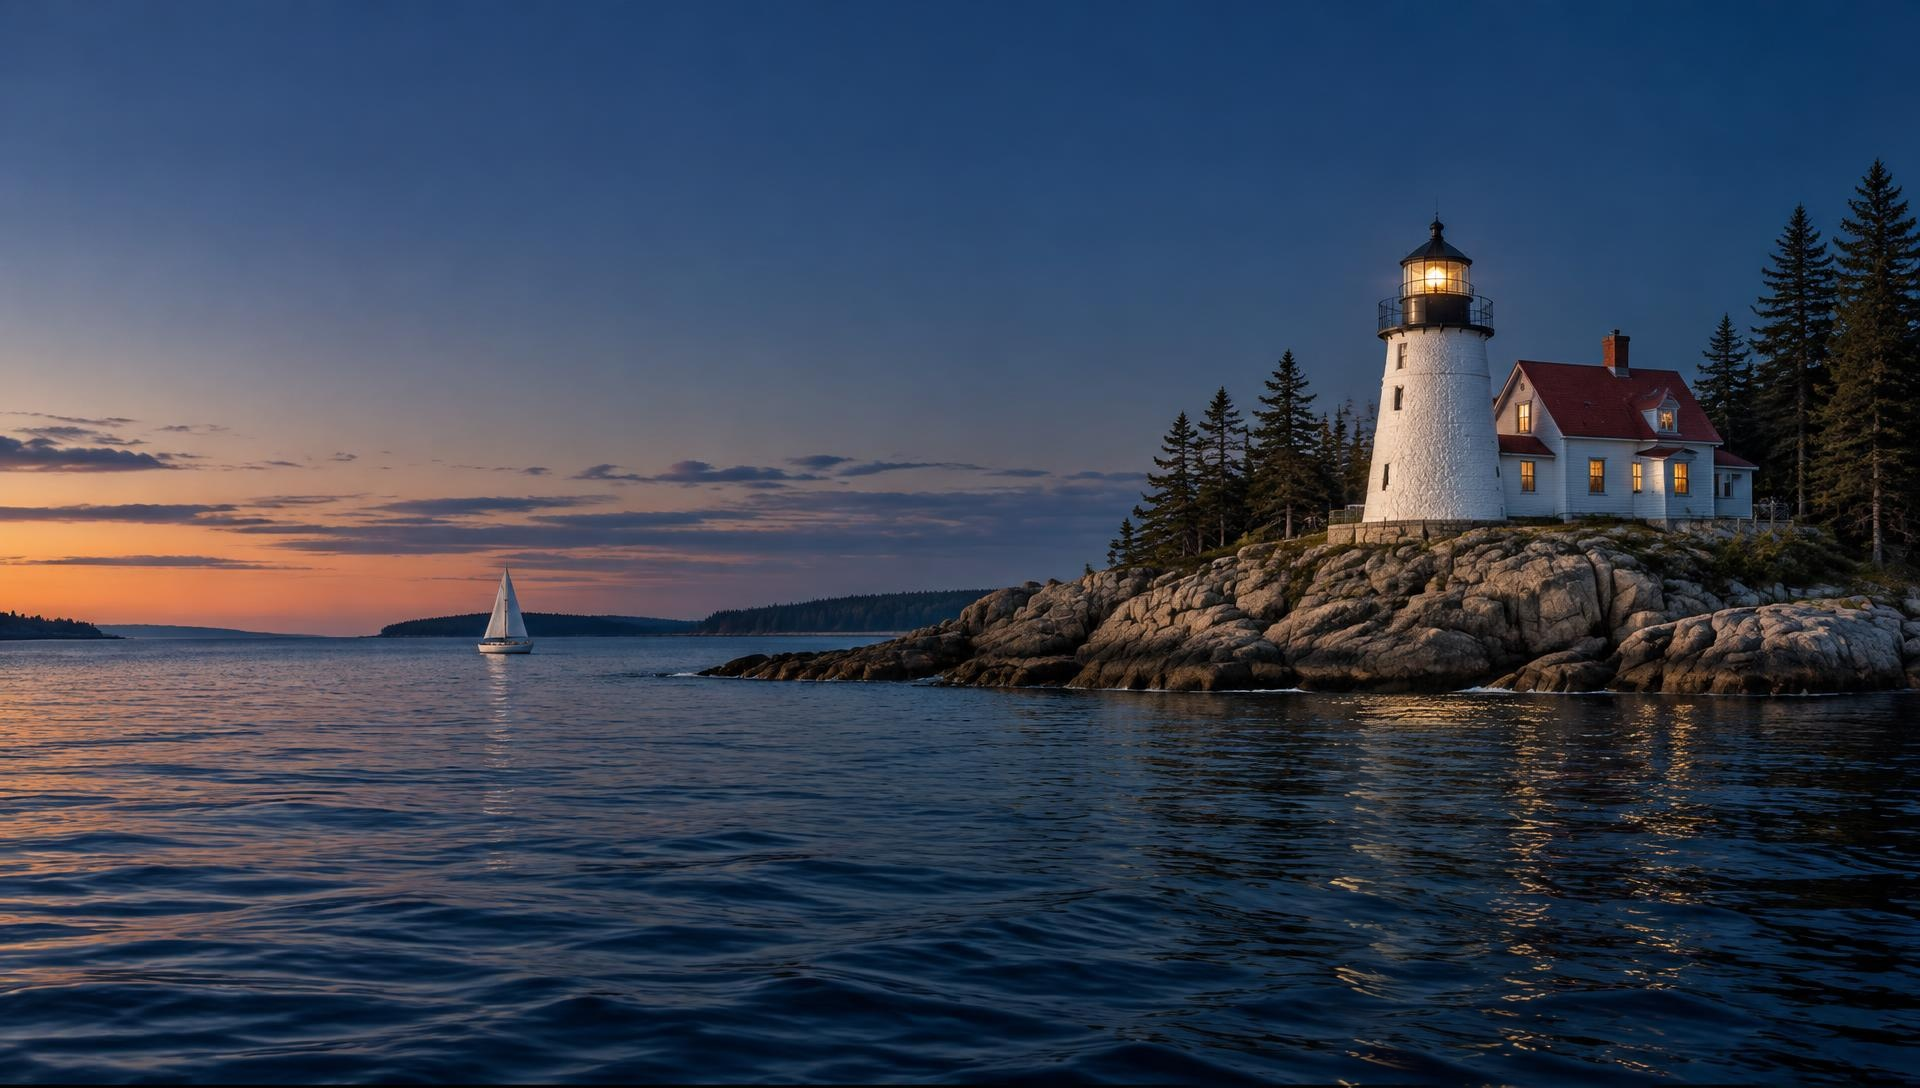
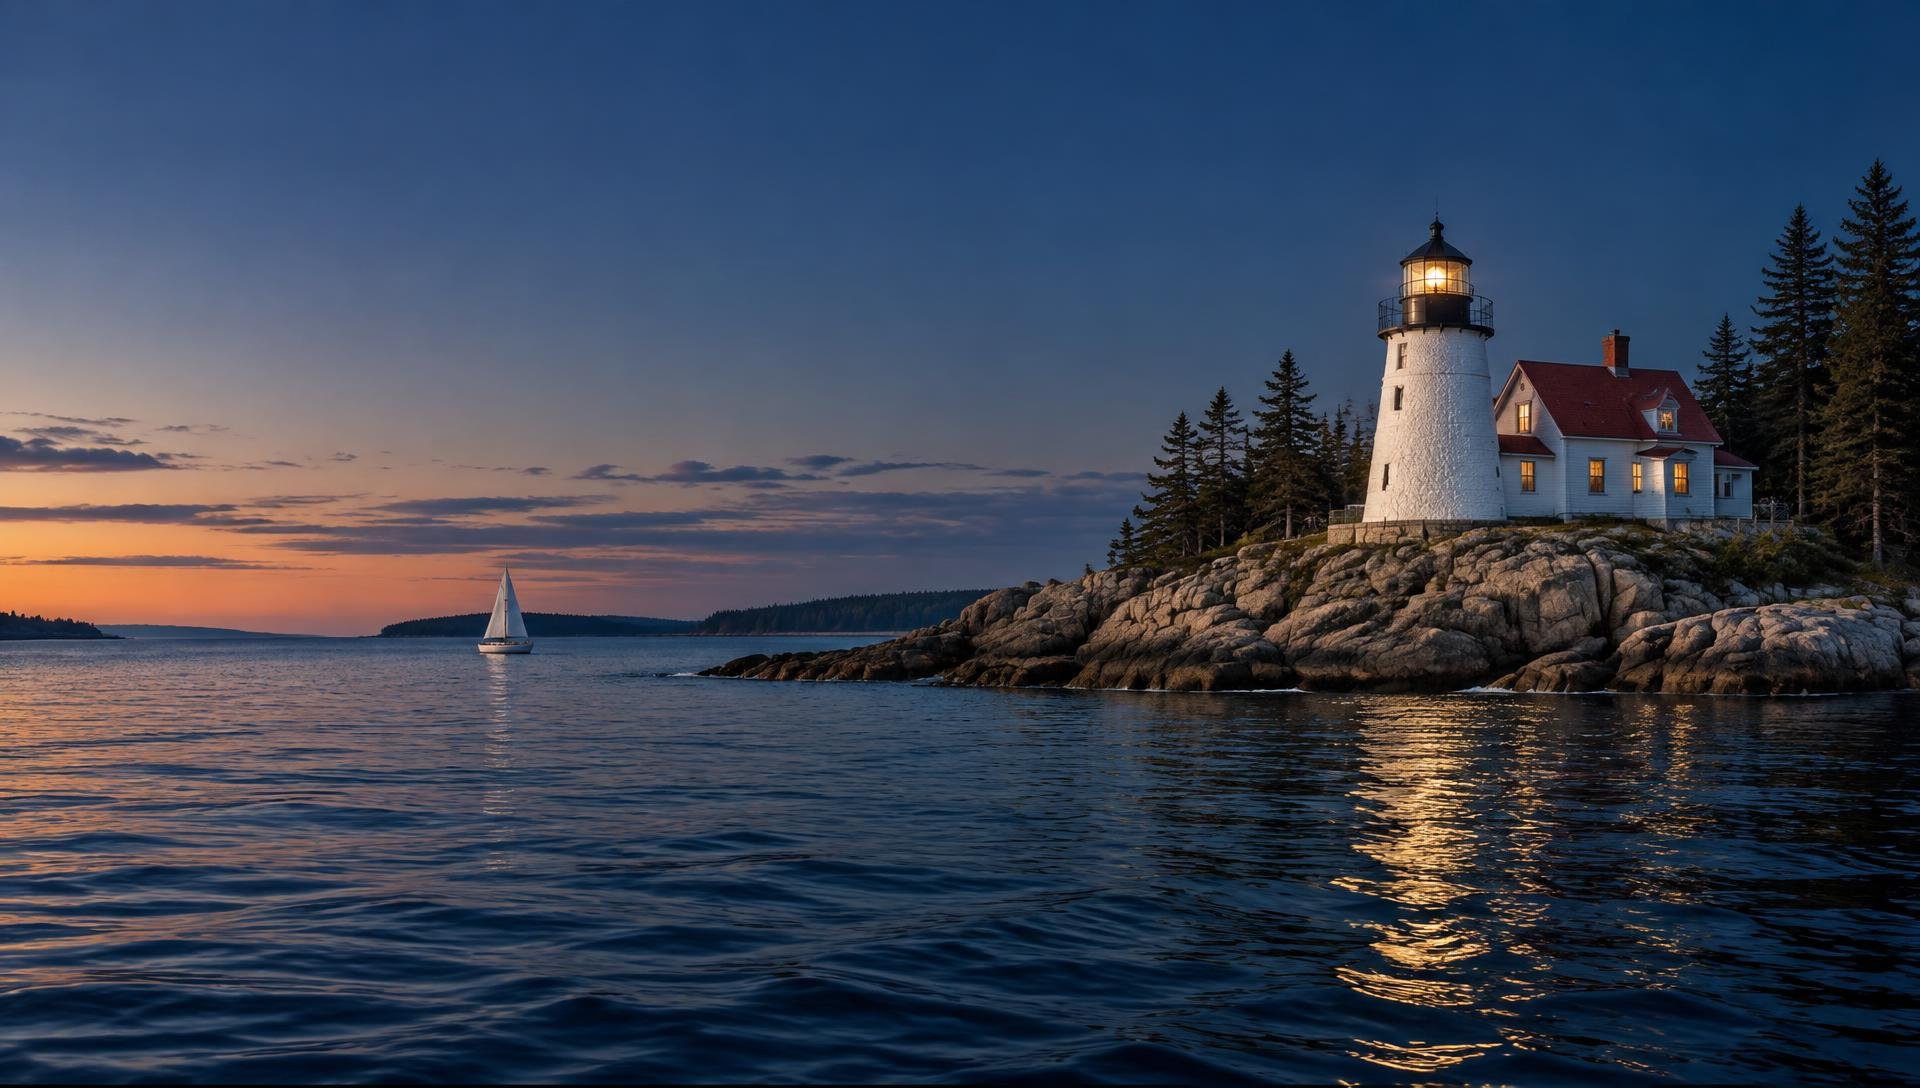
Changes

Changed region(s): [[0.6875, 0.6562, 0.8125, 1.0]]

diff --git a/src/index.css b/src/index.css
@@ -663,30 +663,43 @@ All colors MUST be HSL.
   mix-blend-mode: screen;
   animation: pcd-hh-flare 10s linear infinite;
 }
-/* Water glints: top pinned to the painted shoreline (source y=730, 454px below lamp); clipped to water */
+/* Water reflection: pinned to painted shoreline (source y=730, 454px below lamp), clipped to water; sweeps with the beam */
 .pcd-home-hero__reflect {
   position: absolute; left: 0;
   top: calc(454px * var(--hh-s));
-  width: calc(520px * var(--hh-s)); height: calc(358px * var(--hh-s));
+  width: calc(900px * var(--hh-s)); height: calc(358px * var(--hh-s));
   transform: translateX(-50%);
   overflow: hidden;
-  -webkit-mask-image: linear-gradient(180deg, transparent 0, #000 4%, #000 75%, transparent 100%);
-  mask-image: linear-gradient(180deg, transparent 0, #000 4%, #000 75%, transparent 100%);
+  -webkit-mask-image: linear-gradient(180deg, transparent 0, #000 4%, #000 70%, transparent 100%), linear-gradient(90deg, transparent, #000 20%, #000 80%, transparent);
+  -webkit-mask-composite: source-in; mask-composite: intersect;
+  mask-image: linear-gradient(180deg, transparent 0, #000 4%, #000 70%, transparent 100%), linear-gradient(90deg, transparent, #000 20%, #000 80%, transparent);
+}
+.pcd-hh-sweep {
+  position: absolute; inset: 0; transform-origin: 50% 0;
+  opacity: 0; animation: pcd-hh-sweep 10s linear infinite;
 }
 .pcd-hh-glint {
   position: absolute; display: block; border-radius: 50%;
   background: radial-gradient(ellipse at center, hsl(45 95% 80% / 0.9), hsl(45 95% 75% / 0.3) 45%, transparent 72%);
-  mix-blend-mode: screen; filter: blur(1.5px); opacity: 0;
-  animation: pcd-hh-glint 10s linear infinite;
-  --peak: 0.38;
+  mix-blend-mode: screen; filter: blur(1.5px);
+  opacity: var(--peak);
 }
-/* uneven: strong + narrow near island, wider/dimmer/gappier toward foreground, each a beat later */
-.pcd-hh-glint--0 { left: 46%; top: 3%;  width: 8%;  height: 3%;   --peak: 0.4;  animation-delay: 0s; }
-.pcd-hh-glint--1 { left: 50%; top: 10%; width: 12%; height: 2.6%; --peak: 0.32; animation-delay: -9.85s; }
-.pcd-hh-glint--2 { left: 41%; top: 21%; width: 15%; height: 3%;   --peak: 0.24; animation-delay: -9.7s; }
-.pcd-hh-glint--3 { left: 52%; top: 36%; width: 20%; height: 3.4%; --peak: 0.17; animation-delay: -9.5s; }
-.pcd-hh-glint--4 { left: 33%; top: 52%; width: 26%; height: 3.8%; --peak: 0.12; animation-delay: -9.3s; }
-.pcd-hh-glint--5 { left: 49%; top: 66%; width: 32%; height: 4%;   --peak: 0.08; animation-delay: -9.1s; }
+.pcd-hh-glint--0 { left: 47%; top: 3%;  width: 5%;  height: 3%;   --peak: 0.4; }
+.pcd-hh-glint--1 { left: 50%; top: 10%; width: 7%;  height: 2.6%; --peak: 0.3; }
+.pcd-hh-glint--2 { left: 44%; top: 21%; width: 9%;  height: 3%;   --peak: 0.22; }
+.pcd-hh-glint--3 { left: 51%; top: 36%; width: 12%; height: 3.4%; --peak: 0.16; }
+.pcd-hh-glint--4 { left: 40%; top: 52%; width: 15%; height: 3.8%; --peak: 0.11; }
+.pcd-hh-glint--5 { left: 49%; top: 66%; width: 19%; height: 4%;   --peak: 0.07; }
+/* in lockstep with pcd-hh-beam: right -> center (brighter, longer) -> left fading -> off while pointing away */
+@keyframes pcd-hh-sweep {
+  0%   { transform: translateX(30%) skewX(-38deg) scaleY(0.75); opacity: 0.35; }
+  12%  { transform: translateX(18%) skewX(-24deg) scaleY(0.85); opacity: 0.55; }
+  25%  { transform: translateX(0) skewX(0) scaleY(1.15); opacity: 1; }
+  38%  { transform: translateX(-18%) skewX(24deg) scaleY(0.85); opacity: 0.4; }
+  50%  { transform: translateX(-30%) skewX(38deg) scaleY(0.7); opacity: 0; }
+  50.1%, 86% { transform: translateX(34%) skewX(-40deg) scaleY(0.7); opacity: 0; }
+  100% { transform: translateX(30%) skewX(-38deg) scaleY(0.75); opacity: 0.35; }
+}
 /* 0% points right, 25% toward us, 50% left (toward copy, kept faint), 75% away */
 @keyframes pcd-hh-beam {
   0%   { transform: scaleX(1);     opacity: 0.45; }
@@ -704,18 +717,10 @@ All colors MUST be HSL.
   35%, 100%{ opacity: 0.35; transform: translate(-50%, -50%) scale(0.8); }
   70%, 80% { opacity: 0.2;  transform: translate(-50%, -50%) scale(0.7); }
 }
-@keyframes pcd-hh-glint {
-  0%, 19%, 32%, 100% { opacity: 0; }
-  21% { opacity: calc(var(--peak) * 0.3); }
-  23% { opacity: calc(var(--peak) * 0.7); }
-  25% { opacity: var(--peak); }
-  27% { opacity: calc(var(--peak) * 0.7); }
-  29% { opacity: calc(var(--peak) * 0.3); }
-}
 @media (prefers-reduced-motion: reduce) {
   .pcd-home-hero__beam { animation: none; opacity: 0; }
   .pcd-home-hero__flare { animation: none; opacity: 0.55; }
-  .pcd-hh-glint { animation: none; opacity: 0; }
+  .pcd-hh-sweep { animation: none; opacity: 0; }
 }
 .pcd-home-hero__copy {
   position: relative;

diff --git a/src/pages/Index.tsx b/src/pages/Index.tsx
@@ -76,7 +76,7 @@ function HomeHero() {
           aria-hidden="true"
           style={{ left: lantern.x, top: lantern.y, ["--hh-s" as string]: lantern.scale } as React.CSSProperties}
         >
-          <span className="pcd-home-hero__reflect" aria-hidden="true">{[0,1,2,3,4,5].map((i)=>(<i key={i} className={`pcd-hh-glint pcd-hh-glint--${i}`} />))}</span>
+          <span className="pcd-home-hero__reflect" aria-hidden="true"><span className="pcd-hh-sweep">{[0,1,2,3,4,5].map((i)=>(<i key={i} className={`pcd-hh-glint pcd-hh-glint--${i}`} />))}</span></span>
           <span className="pcd-home-hero__beam" />
           <span className="pcd-home-hero__flare" />
         </div>
